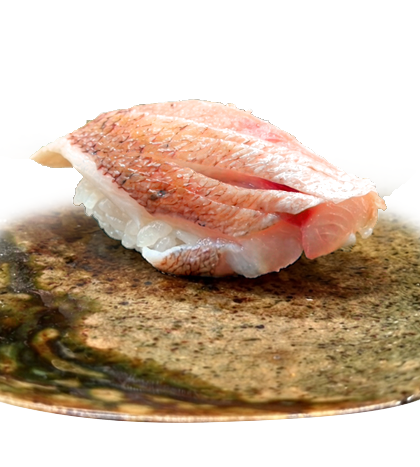
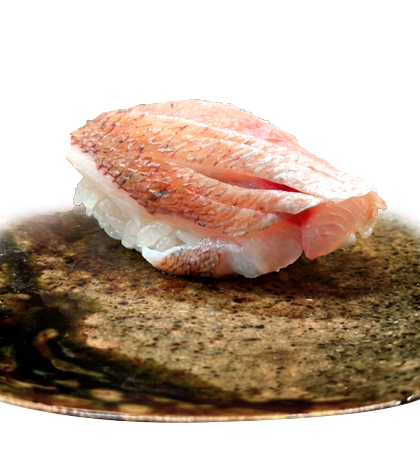
fix: ご予約TableCheckを左罫線+paddingのラッパーに戻しヒーロー画像差替え
- 224536 参照: ::before を廃止し booking-card-block--ruled に border-left と
  padding（左24px・右20px）で線と文字を分離
- カードは左揃えの縦積み。reserve-line ラッパーを削除
- ヒーロー sushi-photo-0.png を差し替え

Made-with: Cursor

diff --git a/css/style.css b/css/style.css
@@ -5707,68 +5707,33 @@ header .header__image_kv img {
   margin-right: auto;
 }
 
-/* ご予約: 左罫線ラッパーだと視覚重心が右にズレるため、罫線はカード本体に付けて中央配置 */
+/* ご予約 TableCheck: 224536 スクショ準拠。左罫線はラッパーの border + padding（疑似要素で重ならない） */
 #reserveSection .booking-card-block--ruled {
-  border-left: none;
-  padding-left: 0;
-  align-items: center;
-}
-
-/* 左罫線は疑似要素。padding-left で線〜本文の間隔を確保。右は margin-right: 20px */
-#reserveSection .booking-card-block--ruled .booking-card,
-#reserveSection .booking-card-block--ruled .booking-card--reserve {
-  position: relative;
-  border-left: none;
-  padding: 16px 28px 16px 40px;
-  margin-left: auto;
-  margin-right: 20px;
-  margin-top: 0;
-  margin-bottom: 0;
-  display: flex;
-  flex-direction: column;
-  align-items: center;
-  text-align: center;
+  border-left: 2px solid rgba(179, 145, 82, 0.58);
+  padding-left: 24px;
+  padding-right: 20px;
+  margin-inline: auto;
   width: max-content;
   max-width: min(100%, 520px);
   box-sizing: border-box;
 }
 
-#reserveSection .booking-card-block--ruled .booking-card::before {
-  content: "";
-  position: absolute;
-  left: 14px;
-  top: 12px;
-  bottom: 12px;
-  width: 2px;
-  border-radius: 1px;
-  background: rgba(179, 145, 82, 0.58);
-  pointer-events: none;
-}
-
-/* ラベル1行目を軸に、CTA・ブランドも同じ中央線上に（幅は最長行に合わせ max-content） */
-#reserveSection .booking-card__reserve-line {
+#reserveSection .booking-card-block--ruled .booking-card,
+#reserveSection .booking-card-block--ruled .booking-card--reserve {
+  position: static;
+  border-left: none;
+  padding: 14px 0;
+  margin: 0;
   display: flex;
   flex-direction: column;
-  align-items: center;
-  justify-content: center;
-  gap: 10px;
-  width: max-content;
-  max-width: 100%;
-  margin-inline: auto;
-  text-align: center;
+  align-items: flex-start;
+  text-align: left;
+  width: 100%;
+  max-width: none;
 }
 
-/* letter-spacing の行末分でボックスが右に伸び、中央でも文字が右寄りに見えるため補正（値は .booking-card__label に合わせる） */
-#reserveSection .booking-card__reserve-line .booking-card__label {
-  display: inline-block;
-  white-space: nowrap;
-  margin-right: -0.22em;
-  text-align: center;
-}
-
-#reserveSection .booking-card__reserve-line .booking-card__cta {
-  justify-content: center;
-  gap: 0.35em;
+#reserveSection .booking-card-block--ruled .booking-card__cta {
+  justify-content: flex-start;
   white-space: nowrap;
 }
 

diff --git a/index.html b/index.html
@@ -71,7 +71,7 @@
   <!-- CSS -->
   <link rel="stylesheet" href="https://cdn.jsdelivr.net/npm/yakuhanjp@3.3.0/dist/css/yakuhanjp.min.css">
   <!-- Page CSS -->
-  <link href="./css/style.css?v=20260404-50" rel="stylesheet" type="text/css" media="screen,print" />
+  <link href="./css/style.css?v=20260404-51" rel="stylesheet" type="text/css" media="screen,print" />
   <script src="https://cdn.jsdelivr.net/npm/dompurify@3.2.4/dist/purify.min.js" crossorigin="anonymous" defer></script>
   <script src="./js/main.js?v=20260404-44" defer></script>
 </head>
@@ -198,12 +198,10 @@
                   <div class="access__net">
                     <div class="access__booking-wrap booking-card-block--ruled">
                       <a href="https://www.tablecheck.com/ja/sushi-zen/reserve/message" data-tablecheck target="_blank" rel="noopener noreferrer" class="booking-card booking-card--reserve" data-i18n-attrs="aria-label:booking_aria_label">
-                        <span class="booking-card__reserve-line">
-                          <span class="booking-card__label" data-i18n="booking_card_label">公式オンライン予約</span>
-                          <span class="booking-card__cta">
-                            <span data-i18n="reserve_button">TableCheckで予約する</span>
-                            <span class="booking-card__arrow" aria-hidden="true">→</span>
-                          </span>
+                        <span class="booking-card__label" data-i18n="booking_card_label">公式オンライン予約</span>
+                        <span class="booking-card__cta">
+                          <span data-i18n="reserve_button">TableCheckで予約する</span>
+                          <span class="booking-card__arrow" aria-hidden="true">→</span>
                         </span>
                         <span class="booking-card__brand">TableCheck</span>
                       </a>
